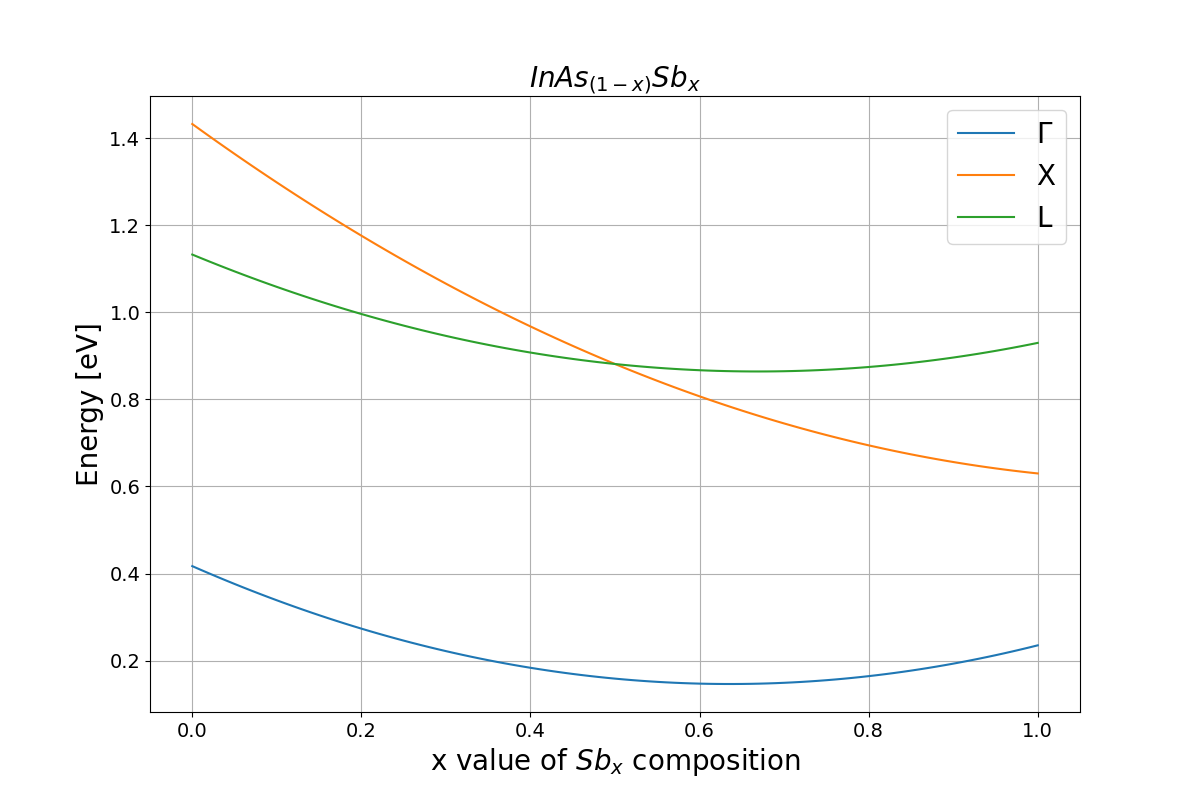
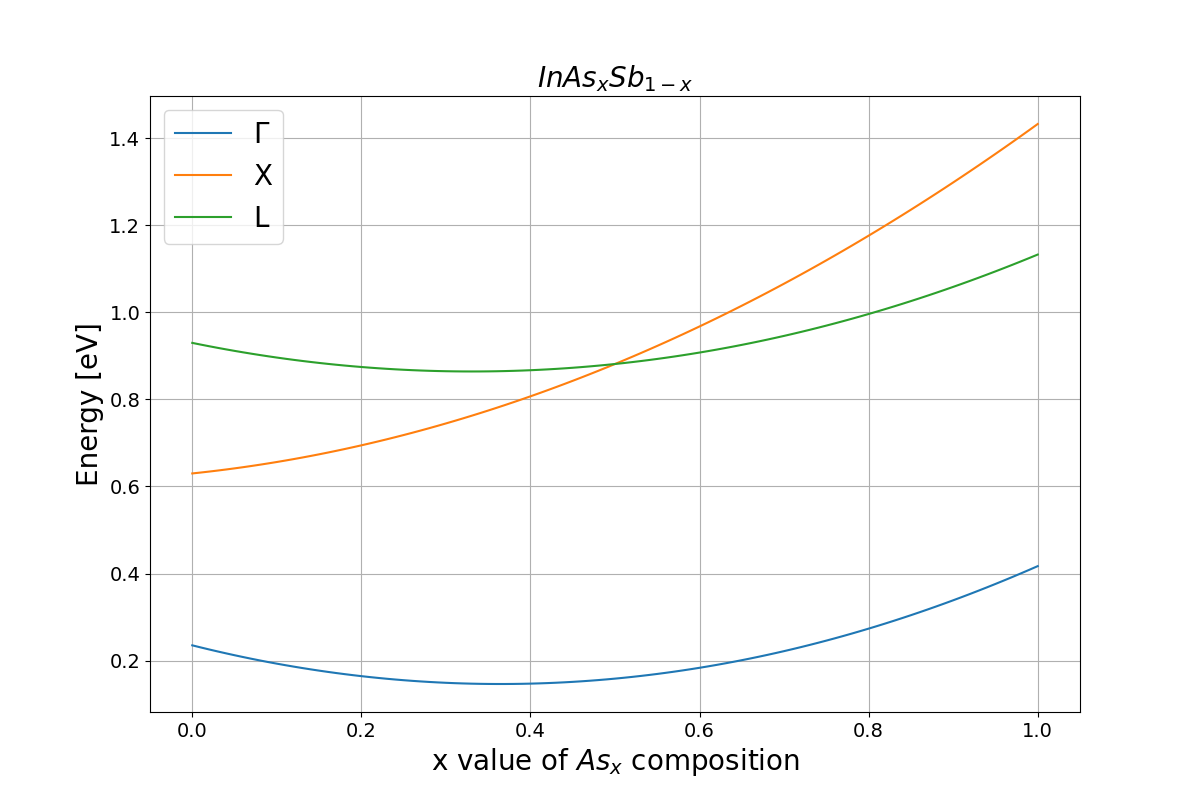
Different material

diff --git a/main.py b/main.py
@@ -8,15 +8,15 @@ import matplotlib.pyplot as plt
 ########    CONFIG    #######
 #############################
 
-PLOT_TITLE = r'$ InAs_{(1-x)}Sb_x $'
-X_LABEL = r'x value of $ Sb_x $ composition'
+PLOT_TITLE = r'$ InAs_{x}Sb_{1-x} $'
+X_LABEL = r'x value of $ As_x $ composition'
 PARAMETERS = [
     # Format should be a tuple containing (B_BC,B_AC,bowing parameter)
     # where material format is: A_xB_(1-x)C
     # One tuple corresponds to one symmetry point
-    (0.417,0.235,0.67) #Point Gamma
-    ,(1.433,0.63,0.6) #Point X
-    ,(1.133,0.93,0.6) #Point L
+    (0.235,0.417,0.67) #Point Gamma
+    ,(0.63,1.433,0.6) #Point X
+    ,(0.93,1.133,0.6) #Point L
 ]
 LABELS = [
     r'$ \Gamma $',
